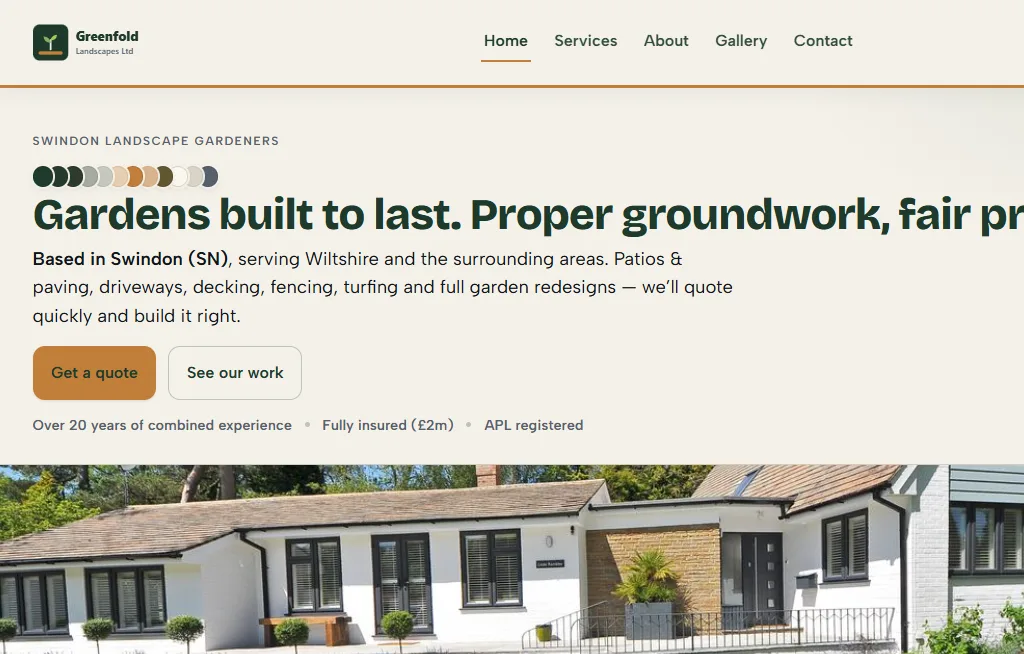
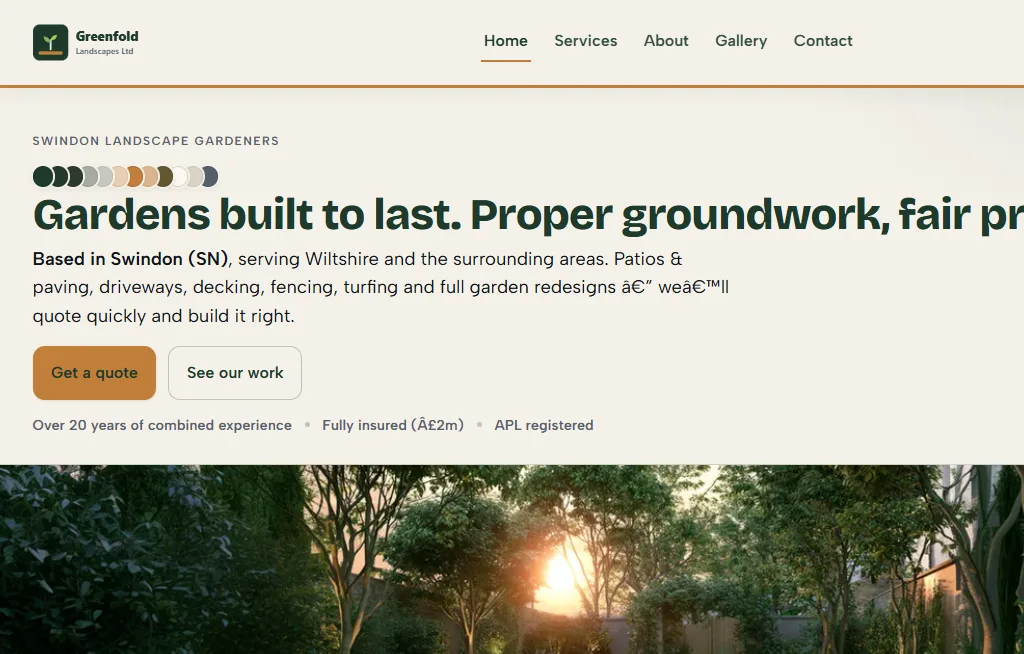
Update contact and index pages for Greenfold Landscapes
- Changed the demo image from JPG to WEBP format for improved loading performance.
- Corrected various typographical errors and inconsistencies in text, including punctuation and special characters, to enhance readability and professionalism.
- Updated business hours and service area details for accuracy and clarity.

diff --git a/greenfold-landscapes/index.html b/greenfold-landscapes/index.html
@@ -1,4 +1,4 @@
-<!doctype html>
+<!doctype html>
 <html lang="en">
   <head>
     <meta charset="utf-8" />
@@ -18,7 +18,7 @@
     />
     <meta property="og:type" content="website" />
     <meta property="og:url" content="https://neobookworm.uk/greenfold-landscapes/" />
-    <meta property="og:image" content="https://neobookworm.uk/greenfold-landscapes/images/hero1.jpg" />
+    <meta property="og:image" content="https://neobookworm.uk/greenfold-landscapes/images/hero1.webp" />
 
     <link rel="preload" href="/greenfold-landscapes/fonts/albertsans-latin.woff2" as="font" type="font/woff2" crossorigin>
     <link rel="preload" href="/greenfold-landscapes/fonts/bricolagegrotesque-latin.woff2" as="font" type="font/woff2" crossorigin>
@@ -109,7 +109,7 @@
             <div class="hero-copy-body">
               <p class="lead">
                 <strong>Based in Swindon (SN)</strong>, serving Wiltshire and the surrounding areas. Patios &amp; paving,
-                driveways, decking, fencing, turfing and full garden redesigns — we’ll quote quickly and build it right.
+                driveways, decking, fencing, turfing and full garden redesigns â€” weâ€™ll quote quickly and build it right.
               </p>
 
               <div class="cta-row">
@@ -120,7 +120,7 @@
               <div class="trust-line" aria-label="Trust line">
                 <span>Over 20 years of combined experience</span>
                 <span class="dot" aria-hidden="true"></span>
-                <span>Fully insured (£2m)</span>
+                <span>Fully insured (Â£2m)</span>
                 <span class="dot" aria-hidden="true"></span>
                 <span>APL registered</span>
               </div>
@@ -130,7 +130,7 @@
 
         <figure class="hero-media hero-media--bleed">
           <img
-            src="/greenfold-landscapes/images/hero1.jpg"
+            src="/greenfold-landscapes/images/hero1.webp"
             alt="A landscaped back garden with a natural stone patio, neat lawn, planted borders and timber fencing in warm afternoon light."
             width="1232"
             height="928"
@@ -161,11 +161,11 @@
           <div class="steps">
             <article class="step">
               <h3>Tell us what you need</h3>
-              <p class="muted">A message and a few photos is perfect. If it’s bigger, we’ll pop out and take a proper look.</p>
+              <p class="muted">A message and a few photos is perfect. If itâ€™s bigger, weâ€™ll pop out and take a proper look.</p>
             </article>
             <article class="step">
               <h3>Fast, clear quote</h3>
-              <p class="muted">No waffle. We’ll explain what we’re doing, what we’re using, and what it’ll cost.</p>
+              <p class="muted">No waffle. Weâ€™ll explain what weâ€™re doing, what weâ€™re using, and what itâ€™ll cost.</p>
             </article>
             <article class="step">
               <h3>We dig in, build, and finish properly</h3>
@@ -180,11 +180,11 @@
           <div class="cut-in-panel">
             <div class="cut-in-panel-inner">
               <blockquote>
-                <p class="quote">“It’s the groundwork you can’t see that decides whether a patio still looks right in ten years.”</p>
+                <p class="quote">â€œItâ€™s the groundwork you canâ€™t see that decides whether a patio still looks right in ten years.â€</p>
                 <p class="quote-body">
                   <strong>So we never cut the sub-base short.</strong> We show up when we say we will, we set proper
                   foundations and drainage, and we leave the site clean. If you want a landscaper you can trust with the
-                  whole job, you’re in the right place.
+                  whole job, youâ€™re in the right place.
                 </p>
               </blockquote>
             </div>
@@ -211,7 +211,7 @@
                 <li><span class="paint-swatch paint-swatch--putty"></span></li>
               </ul>
             </div>
-            <h2 id="services-snapshot">From a single patio to a full garden redesign — here’s what we do most.</h2>
+            <h2 id="services-snapshot">From a single patio to a full garden redesign â€” hereâ€™s what we do most.</h2>
           </div>
 
           <div class="grid cols-2 cols-3">
@@ -229,7 +229,7 @@
             </article>
             <article class="card">
               <h3><a href="/greenfold-landscapes/services#fencing">Fencing &amp; walls</a></h3>
-              <p>Fencing, gates, garden walls and screening — sturdy and neatly finished.</p>
+              <p>Fencing, gates, garden walls and screening â€” sturdy and neatly finished.</p>
             </article>
             <article class="card">
               <h3><a href="/greenfold-landscapes/services#turfing">Turfing &amp; planting</a></h3>
@@ -251,7 +251,7 @@
         <div class="container strip-inner">
           <h2 id="local-strip">Swindon based. Wiltshire through and through.</h2>
           <p class="lead" style="margin: 0">
-            <strong>We work across Swindon, Marlborough, Royal Wootton Bassett and the wider Wiltshire area</strong> — from a
+            <strong>We work across Swindon, Marlborough, Royal Wootton Bassett and the wider Wiltshire area</strong> â€” from a
             single patio to larger design-and-build projects.
           </p>
         </div>
@@ -281,18 +281,18 @@
 
           <div class="quotes">
             <div class="quote-card">
-              <p>“Clear quote, realistic start date, and they stuck to it.”</p>
+              <p>â€œClear quote, realistic start date, and they stuck to it.â€</p>
             </div>
             <div class="quote-card">
-              <p>“Courteous crew — the house still felt liveable while they worked.”</p>
+              <p>â€œCourteous crew â€” the house still felt liveable while they worked.â€</p>
             </div>
             <div class="quote-card">
-              <p>“Honest pricing and a finish that still looks sharp months later.”</p>
+              <p>â€œHonest pricing and a finish that still looks sharp months later.â€</p>
             </div>
           </div>
 
           <p class="platform-trust" style="margin-top: 0.85rem">
-            Also listed on <strong>MyBuilder</strong> and <strong>Rated People</strong> — no platform logos on this demo
+            Also listed on <strong>MyBuilder</strong> and <strong>Rated People</strong> â€” no platform logos on this demo
             (plain text only).
           </p>
 
@@ -307,17 +307,17 @@
       <div class="container footer-inner">
         <div>
           <h2>Greenfold</h2>
-          <p class="demo-note"><strong>Small-team landscaping in Swindon</strong> — proper groundwork, straight answers.</p>
+          <p class="demo-note"><strong>Small-team landscaping in Swindon</strong> â€” proper groundwork, straight answers.</p>
 
           <div class="footer-meta" aria-label="Contact details">
             <div>
               <strong>Phone:</strong>
               <a href="tel:[phone redacted]" data-demo-block>[phone redacted]</a>
-              <div class="demo-note">Demo site note: calls and email links are disabled — use the contact form instead (demo only).</div>
+              <div class="demo-note">Demo site note: calls and email links are disabled â€” use the contact form instead (demo only).</div>
             </div>
             <div><strong>Email:</strong> <a href="mailto:[email redacted]" data-demo-block>[email redacted]</a></div>
-            <div><strong>Hours:</strong> Monday–Friday 7:30am–5:30pm, Saturday by arrangement</div>
-            <div><strong>Service area:</strong> Based in Swindon (SN) — serving Wiltshire and the surrounding areas</div>
+            <div><strong>Hours:</strong> Mondayâ€“Friday 7:30amâ€“5:30pm, Saturday by arrangement</div>
+            <div><strong>Service area:</strong> Based in Swindon (SN) â€” serving Wiltshire and the surrounding areas</div>
           </div>
         </div>
 
@@ -354,20 +354,20 @@
               </svg>
               <div>
                 <div class="nb-top">Fully Insured</div>
-                <div class="nb-bot">Public liability cover<br />£2m</div>
+                <div class="nb-bot">Public liability cover<br />Â£2m</div>
               </div>
             </div>
 
           </div>
           <p class="platform-trust platform-trust--on-dark">
-            Also listed on <strong>MyBuilder</strong> and <strong>Rated People</strong> — text only here (no platform
+            Also listed on <strong>MyBuilder</strong> and <strong>Rated People</strong> â€” text only here (no platform
             logos on this demo).
           </p>
         </div>
       </div>
 
       <div class="container footer-bottom">
-        <div>© Greenfold Landscapes Ltd</div>
+        <div>Â© Greenfold Landscapes Ltd</div>
         <div>Demo site by <a href="https://neobookworm.uk" rel="nofollow">NeoBookworm.uk</a></div>
       </div>
     </footer>

diff --git a/greenfold-landscapes/contact.html b/greenfold-landscapes/contact.html
@@ -1,4 +1,4 @@
-<!doctype html>
+<!doctype html>
 <html lang="en">
   <head>
     <meta charset="utf-8" />
@@ -18,7 +18,7 @@
     />
     <meta property="og:type" content="website" />
     <meta property="og:url" content="https://neobookworm.uk/greenfold-landscapes/contact" />
-    <meta property="og:image" content="https://neobookworm.uk/greenfold-landscapes/images/hero1.jpg" />
+    <meta property="og:image" content="https://neobookworm.uk/greenfold-landscapes/images/hero1.webp" />
 
     <link rel="preload" href="/greenfold-landscapes/fonts/albertsans-latin.woff2" as="font" type="font/woff2" crossorigin>
     <link rel="preload" href="/greenfold-landscapes/fonts/bricolagegrotesque-latin.woff2" as="font" type="font/woff2" crossorigin>
@@ -106,7 +106,7 @@
           </div>
           <h1>Get a quote</h1>
           <p class="lead">
-            Send a message with your postcode, what you need doing, and any photos you’ve got. We’ll come back to you
+            Send a message with your postcode, what you need doing, and any photos youâ€™ve got. Weâ€™ll come back to you
             quickly.
           </p>
         </div>
@@ -140,7 +140,7 @@
               </p>
 
               <p><strong>Email:</strong> <a href="mailto:[email redacted]" data-demo-block>[email redacted]</a></p>
-              <p><strong>Hours:</strong> Monday–Friday 7:30am–5:30pm, Saturday by arrangement</p>
+              <p><strong>Hours:</strong> Mondayâ€“Friday 7:30amâ€“5:30pm, Saturday by arrangement</p>
               <p><strong>Service area:</strong> Based in Swindon (SN)</p>
 
               <div class="demo-note" style="color: rgba(16, 20, 24, 0.72)">
@@ -152,11 +152,11 @@
               <h2>Why people book us</h2>
               <ul class="trust-list">
                 <li><strong>Over 20 years</strong> combined experience</li>
-                <li><strong>Fully insured</strong> — £2m public liability</li>
+                <li><strong>Fully insured</strong> â€” Â£2m public liability</li>
                 <li><strong>APL registered</strong></li>
               </ul>
               <p class="platform-trust" style="margin-top: 0.85rem">
-                We’re also listed on <strong>MyBuilder</strong> and <strong>Rated People</strong> — this demo uses plain
+                Weâ€™re also listed on <strong>MyBuilder</strong> and <strong>Rated People</strong> â€” this demo uses plain
                 text only (no platform logos).
               </p>
             </aside>
@@ -218,7 +218,7 @@
                   <select id="timeframe" name="timeframe">
                     <option value="">Not sure yet</option>
                     <option value="asap">ASAP</option>
-                    <option value="1-2-weeks">1–2 weeks</option>
+                    <option value="1-2-weeks">1â€“2 weeks</option>
                     <option value="this-month">This month</option>
                   </select>
                 </div>
@@ -226,7 +226,7 @@
                 <div class="field">
                   <label for="heard">How did you hear about us?</label>
                   <select id="heard" name="heard">
-                    <option value="">Select…</option>
+                    <option value="">Selectâ€¦</option>
                     <option value="word-of-mouth">Word of mouth</option>
                     <option value="mybuilder">MyBuilder</option>
                     <option value="rated-people">Rated People</option>
@@ -241,7 +241,7 @@
               </div>
 
               <p class="muted" style="margin-top: 0.9rem">
-                <strong>If you can, add a couple of photos in your message — it helps us quote accurately.</strong> (No file
+                <strong>If you can, add a couple of photos in your message â€” it helps us quote accurately.</strong> (No file
                 upload on this demo form.)
               </p>
 
@@ -265,7 +265,7 @@
               </div>
 
               <p class="demo-note" style="margin-top: 0.75rem; color: rgba(16, 20, 24, 0.72)">
-                Demo site note: this form doesn’t send anywhere — it just shows a confirmation message.
+                Demo site note: this form doesnâ€™t send anywhere â€” it just shows a confirmation message.
               </p>
             </form>
           </div>
@@ -293,8 +293,8 @@
             </div>
             <h2 id="where-we-work">Where we work</h2>
             <p class="lead">
-              We’re based in Swindon and work across Swindon, Marlborough, Royal Wootton Bassett and the wider Wiltshire
-              area. If you’re nearby and not sure, send your postcode — we’ll tell you straight.
+              Weâ€™re based in Swindon and work across Swindon, Marlborough, Royal Wootton Bassett and the wider Wiltshire
+              area. If youâ€™re nearby and not sure, send your postcode â€” weâ€™ll tell you straight.
             </p>
           </div>
 
@@ -316,17 +316,17 @@
       <div class="container footer-inner">
         <div>
           <h2>Greenfold</h2>
-          <p class="demo-note"><strong>Small-team landscaping in Swindon</strong> — proper groundwork, straight answers.</p>
+          <p class="demo-note"><strong>Small-team landscaping in Swindon</strong> â€” proper groundwork, straight answers.</p>
 
           <div class="footer-meta" aria-label="Contact details">
             <div>
               <strong>Phone:</strong>
               <a href="tel:[phone redacted]" data-demo-block>[phone redacted]</a>
-              <div class="demo-note">Demo site note: calls and email links are disabled — use the contact form instead (demo only).</div>
+              <div class="demo-note">Demo site note: calls and email links are disabled â€” use the contact form instead (demo only).</div>
             </div>
             <div><strong>Email:</strong> <a href="mailto:[email redacted]" data-demo-block>[email redacted]</a></div>
-            <div><strong>Hours:</strong> Monday–Friday 7:30am–5:30pm, Saturday by arrangement</div>
-            <div><strong>Service area:</strong> Based in Swindon (SN) — serving Wiltshire and the surrounding areas</div>
+            <div><strong>Hours:</strong> Mondayâ€“Friday 7:30amâ€“5:30pm, Saturday by arrangement</div>
+            <div><strong>Service area:</strong> Based in Swindon (SN) â€” serving Wiltshire and the surrounding areas</div>
           </div>
         </div>
 
@@ -373,20 +373,20 @@
               </svg>
               <div>
                 <div class="nb-top">Fully Insured</div>
-                <div class="nb-bot">Public liability cover<br />£2m</div>
+                <div class="nb-bot">Public liability cover<br />Â£2m</div>
               </div>
             </div>
 
           </div>
           <p class="platform-trust platform-trust--on-dark">
-            Also listed on <strong>MyBuilder</strong> and <strong>Rated People</strong> — text only here (no platform
+            Also listed on <strong>MyBuilder</strong> and <strong>Rated People</strong> â€” text only here (no platform
             logos on this demo).
           </p>
         </div>
       </div>
 
       <div class="container footer-bottom">
-        <div>© Greenfold Landscapes Ltd</div>
+        <div>Â© Greenfold Landscapes Ltd</div>
         <div>Demo site by <a href="https://neobookworm.uk" rel="nofollow">NeoBookworm.uk</a></div>
       </div>
     </footer>